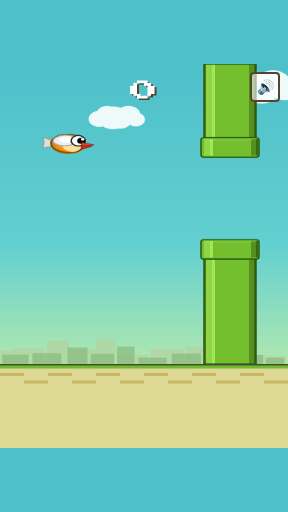
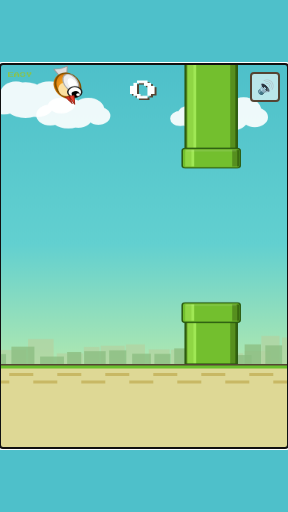
v10: Fix PIPE_GAP crash — game was completely broken
- drawPipe() referenced undefined PIPE_GAP constant
- This caused a runtime error that killed the game loop
- Bird froze in place and pipes never rendered
- Fixed: PIPE_GAP → diff.gap
- Game now works correctly on all difficulty levels
- Updated gameplay screenshot with working game

diff --git a/index.html b/index.html
@@ -4,7 +4,7 @@
     <meta charset="UTF-8">
     <meta name="viewport" content="width=device-width, initial-scale=1.0, user-scalable=no">
     <title>Flappy Bird</title>
-    <!-- v9-fix -->
+    <!-- v10-fix -->
     <style>
         @import url('https://fonts.googleapis.com/css2?family=Press+Start+2P&display=swap');
         * { margin: 0; padding: 0; box-sizing: border-box; }
@@ -194,7 +194,7 @@
         const capH = 26, capOv = 3;
         const bodyX = px, bodyW = PIPE_W;
         const capX = px - capOv, capW = PIPE_W + capOv * 2;
-        const botY = topH + PIPE_GAP;
+        const botY = topH + diff.gap;
         const botH = GROUND_Y - botY;
 
         // --- TOP PIPE ---
